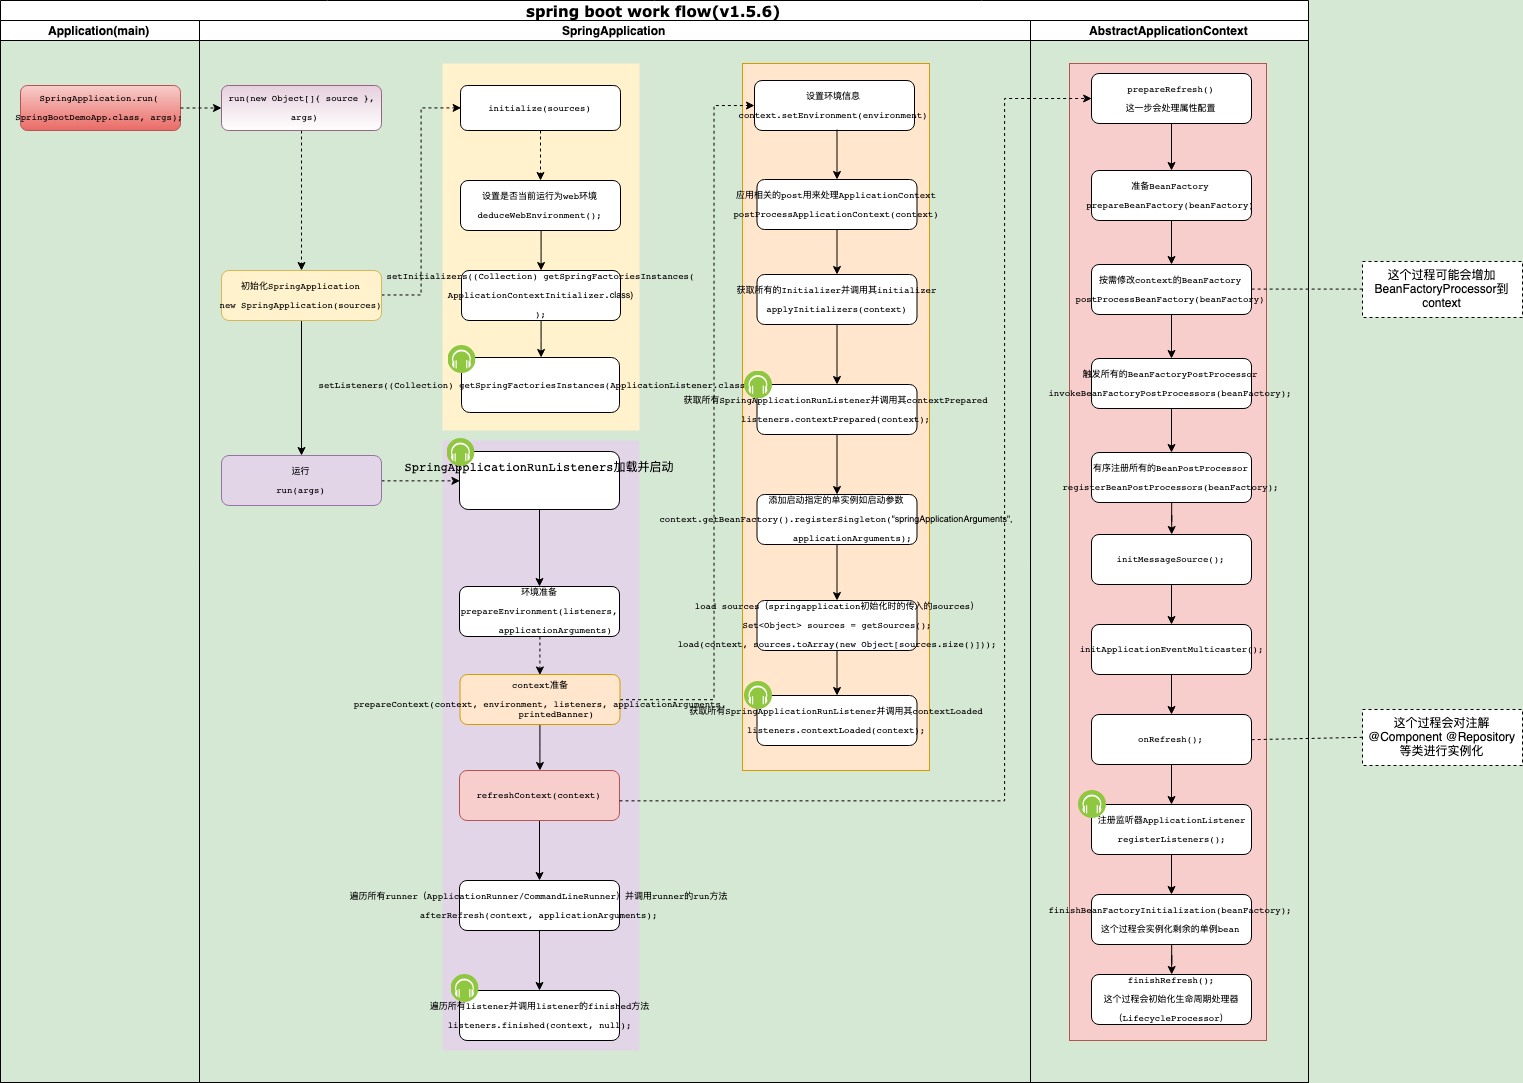
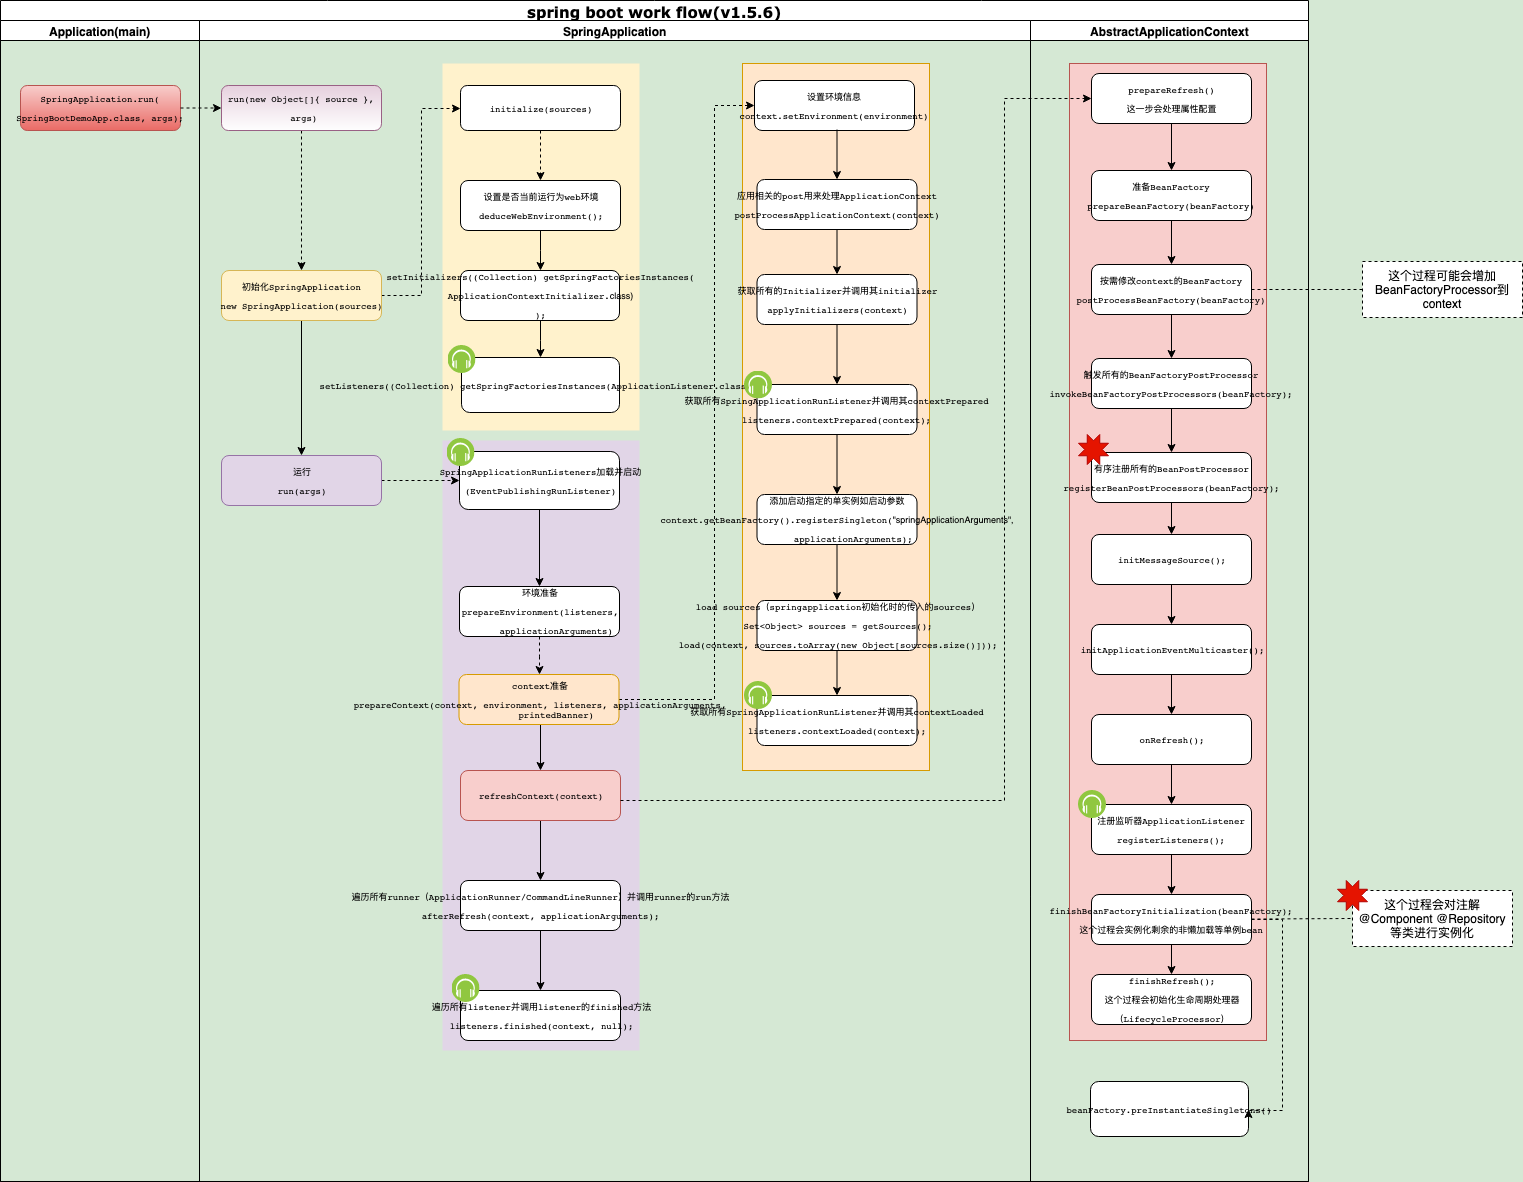
spring boot update

diff --git a/study/spring/spring-boot.md b/study/spring/spring-boot.md
@@ -9,40 +9,134 @@ title: springboot workflow
 ---
 **springboot version:** v1.5.6
 
-## 1. spring boot workflow
+## 1. spring boot 流程及关键类梳理
 ![springboot-workflow.png](../../picture/springboot-workflow.png)
 
 [springboot-workflow.svg](../../picture/springboot-workflow.svg)
 
 ## 2. 重点流程梳理
 
-
 ## 3. 关键接口及类
 ### 3.1. BeanFactory
+用于创建spring容器管理等实例的工厂顶级接口
 
 ### 3.2. ApplicationContext
+SpringApplication的应用上下文接口，继承了众多应用重量级接口，如BeanFactory的子类
+* AnnotationConfigApplicationContext 
+
+    SpringApplication默认的context类
+
+    ![AnnotationConfigApplicationContext.png](../../picture/AnnotationConfigApplicationContext.png)
+
+* AnnotationConfigEmbeddedWebApplicationContext
+    
+    SpringApplication默认的web环境等context类
+
+    ![AnnotationConfigEmbeddedWebApplicationContext.png](../../picture/AnnotationConfigEmbeddedWebApplicationContext.png)
 
 ### 3.3. SpringApplicationRunListener
-SpringApplication的run方法的监听器，spring应用级别的监听器，spring内部只有一个实现。
+SpringApplication的run方法的监听器，spring应用级别的监听器，对run的各个阶段（比如环境准备结束阶段、上下文准备结束阶段等等）进行监听。该监听器在run方法内的开始被启动。spring内部只有一个实现：
 * EventPublishingRunListener
+SpringApplicationRunListener实现类，用于监听run的相关事件并发布到各个ApplicationListener监听器。
 
 ### 3.4. ApplicationListener
-Spring的事件监听器
+Spring的事件监听器，用来监听指定的ApplicationEvent事件。
 * ScheduledAnnotationBeanProcessor
+
+    用于对注解@Scheduled对方法进行调度处理
 * ConfigurationPropertiesbindingPostProcessor
+
+    用于对注解ConfigurationProperties对bean进行属性绑定
 * ConfigFileApplicationListener
+
+    用于加载配置（aplication.properties/application.yml等文件）并设置context环境信息。
+
+
 * LoggingApplicationListener
+
+    用于配置LoggingSystem
+
 * DelegatingApplicationListener
 
-### 3.5. BeanFactoryPostProcessor
+   用于对从spring环境变量配置的ApplicationListener类进行实例化并代理的监听器
 
+### 3.5. BeanFactoryPostProcessor
+用于二次处理application context的内部初始化后对bean factory
+
+```
+public interface BeanFactoryPostProcessor {
+	void postProcessBeanFactory(ConfigurableListableBeanFactory beanFactory) throws BeansException;
+}
+```
 
 ### 3.6. BeanPostProcessor
+用于对springbean进行二次处理，内部维护两个方法分别用来在初始化前和初始化后两个阶段,这两个方法在BeanFactory的getBean()内被调用。
+
+```
+public interface BeanPostProcessor {
+
+	Object postProcessBeforeInitialization(Object bean, String beanName) throws BeansException;
+
+	Object postProcessAfterInitialization(Object bean, String beanName) throws BeansException;
+
+}
+```
+
+#### 3.6.1. ApplicationContextAwareProcessor
+众多核心Aware接口触发的中心类，详见postProcessBeforeInitialization(final Object bean, String beanName)->invokeAwareInterfaces(bean)方法,
+
+```
+private void invokeAwareInterfaces(Object bean) {
+		if (bean instanceof Aware) {
+			if (bean instanceof EnvironmentAware) {
+				((EnvironmentAware) bean).setEnvironment(this.applicationContext.getEnvironment());
+			}
+			if (bean instanceof EmbeddedValueResolverAware) {
+				((EmbeddedValueResolverAware) bean).setEmbeddedValueResolver(this.embeddedValueResolver);
+			}
+			if (bean instanceof ResourceLoaderAware) {
+				((ResourceLoaderAware) bean).setResourceLoader(this.applicationContext);
+			}
+			if (bean instanceof ApplicationEventPublisherAware) {
+				((ApplicationEventPublisherAware) bean).setApplicationEventPublisher(this.applicationContext);
+			}
+			if (bean instanceof MessageSourceAware) {
+				((MessageSourceAware) bean).setMessageSource(this.applicationContext);
+			}
+			if (bean instanceof ApplicationContextAware) {
+				((ApplicationContextAware) bean).setApplicationContext(this.applicationContext);
+			}
+		}
+	}
+```
 
 
 ### 3.7. Aware
-* ApplicationContextAwareProcessor
+Aware没有任何抽象方法，是一个超级标记接口。用于标识一个bean有资格被spring容器的框架对象通过回调方法通知。Aware没有定义任务方法，任何处理对给中类型的示例的处理逻辑应该在BeanPostProcessor明确定义好。
+#### 3.7.1. ApplicationContextAware
 
+实现该接口的类可以持有ApplicationContext,ApplicationContextAware对应的逻辑处理类为ApplicationContextAwareProcessor，
 
-## 4. 模式
-* 观察者模式（listener）
+```
+public interface ApplicationContextAware extends Aware {
+    void setApplicationContext(ApplicationContext applicationContext) throws BeansException;
+}
+```
+
+#### 3.7.2. BeanFactoryAware
+
+实现该接口的类可以获取到当前应用使用的bean factory
+```
+public interface BeanFactoryAware extends Aware {
+    void setBeanFactory(BeanFactory beanFactory) throws BeansException;
+}
+```
+#### 其他
+以下Aware与上面的两个Aware类似，基本都是用于使子类持有其Aware中方法指定的实例
+* ApplicationEventPublisherAware
+* BeanNameAware
+* BeanClassLoaderAware
+* ServletConfigAware
+* EnvironmentAware
+* ImportAware
+* MessageSourceAware
